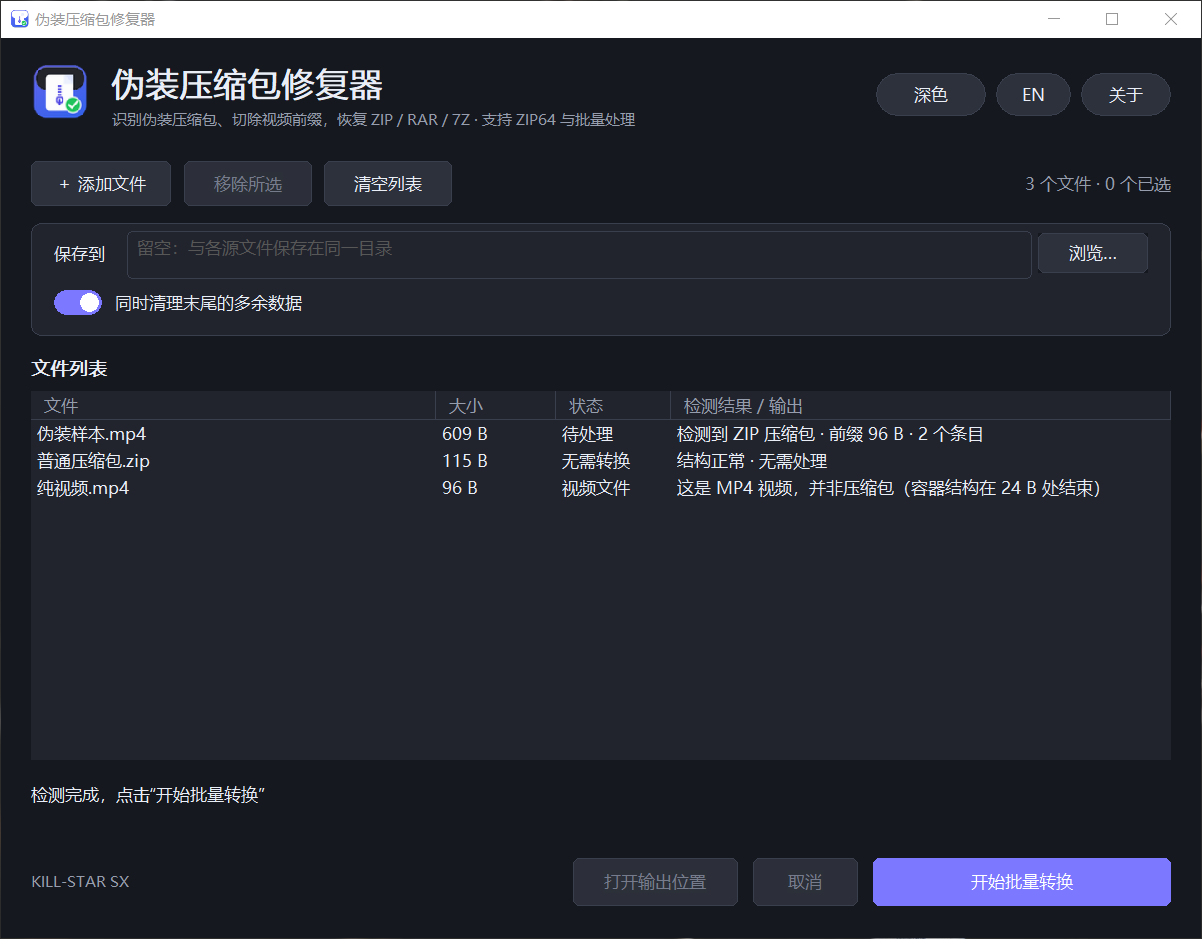
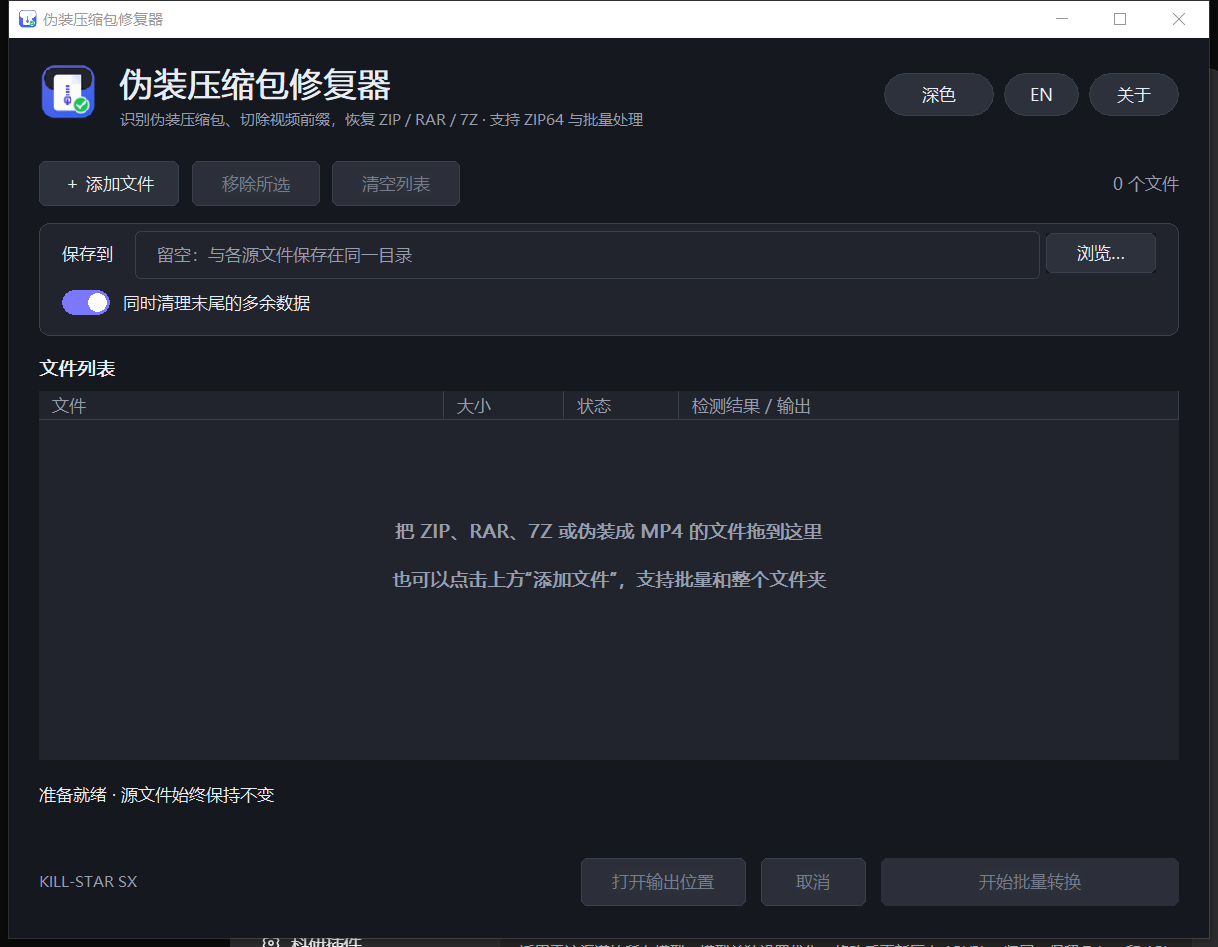
Fix URL launching and polish output field

diff --git a/main.cpp b/main.cpp
@@ -432,6 +432,43 @@ private:
         return DefSubclassProc(window, message, wParam, lParam);
     }
 
+
+    static LRESULT CALLBACK outputEditProc(HWND window, UINT message, WPARAM wParam,
+                                           LPARAM lParam, UINT_PTR, DWORD_PTR reference) {
+        App* self = reinterpret_cast<App*>(reference);
+        if (message == WM_PAINT && GetFocus() != window) {
+            PAINTSTRUCT paint{};
+            HDC dc = BeginPaint(window, &paint);
+            RECT client{};
+            GetClientRect(window, &client);
+            FillRect(dc, &client, self->cardBrush_);
+            const int length = GetWindowTextLengthW(window);
+            std::vector<wchar_t> buffer(static_cast<size_t>(length) + 1, L'\0');
+            if (length > 0) GetWindowTextW(window, buffer.data(), length + 1);
+            const wchar_t* text = length > 0 ? buffer.data() :
+                self->tr(L"留空：与各源文件保存在同一目录",
+                         L"Empty: save next to each source file");
+            SetBkMode(dc, TRANSPARENT);
+            SetTextColor(dc, length > 0 ? self->palette_.text : self->palette_.muted);
+            SelectObject(dc, self->uiFont_);
+            RECT label = client;
+            label.left += self->scale(10);
+            label.right -= self->scale(10);
+            DrawTextW(dc, text, -1, &label,
+                      DT_LEFT | DT_VCENTER | DT_SINGLELINE | DT_NOPREFIX |
+                          (length > 0 ? DT_PATH_ELLIPSIS : DT_END_ELLIPSIS));
+            EndPaint(window, &paint);
+            return 0;
+        }
+        if (message == WM_SETFOCUS || message == WM_KILLFOCUS) {
+            InvalidateRect(window, nullptr, TRUE);
+        }
+        if (message == WM_NCDESTROY) {
+            RemoveWindowSubclass(window, &App::outputEditProc, 1);
+        }
+        return DefSubclassProc(window, message, wParam, lParam);
+    }
+
     static LRESULT CALLBACK aboutProc(HWND window, UINT message, WPARAM wParam, LPARAM lParam) {
         App* self = reinterpret_cast<App*>(GetWindowLongPtrW(window, GWLP_USERDATA));
         if (message == WM_NCCREATE) {
@@ -500,9 +537,8 @@ private:
                                    42, 158, 58, 28);
         outputEdit_ = makeControl(WC_EDITW, L"", ES_AUTOHSCROLL | WS_TABSTOP,
                                   108, 158, 620, 30, IDC_OUTPUT);
-        SendMessageW(outputEdit_, EM_SETCUEBANNER, TRUE,
-                     reinterpret_cast<LPARAM>(tr(L"留空：与各源文件保存在同一目录",
-                                                L"Empty: save next to each source file")));
+        SetWindowSubclass(outputEdit_, &App::outputEditProc, 1,
+                          reinterpret_cast<DWORD_PTR>(this));
         browseButton_ = makeControl(WC_BUTTONW, tr(L"浏览…", L"Browse…"),
                                     BS_OWNERDRAW | WS_TABSTOP, 828, 156, 88, 32, IDC_BROWSE);
         trimCheck_ = makeControl(WC_BUTTONW, tr(L"同时清理末尾的多余数据", L"Trim trailing data"),
@@ -1213,16 +1249,13 @@ private:
                         tr(L"打开链接", L"Open link"), MB_OK | MB_ICONINFORMATION);
             return;
         }
-        // Route through the shell so the browser does not inherit an elevated token
-        // when this tool happens to run elevated. A browser that is already
-        // elevated is handled above, because Windows blocks that hand-off.
-        std::wstring arguments = L"\"";
-        arguments += url;
-        arguments += L"\"";
+        // Let the shell resolve the registered browser directly. Starting a new
+        // explorer.exe process for a URL can fail with STATUS_DLL_INIT_FAILED.
         const HINSTANCE launched =
-            ShellExecuteW(window_, L"open", L"explorer.exe", arguments.c_str(), nullptr, SW_SHOWNORMAL);
-        if (reinterpret_cast<INT_PTR>(launched) <= 32) {
             ShellExecuteW(window_, L"open", url, nullptr, nullptr, SW_SHOWNORMAL);
+        if (reinterpret_cast<INT_PTR>(launched) <= 32) {
+            const std::wstring arguments = L"url.dll,FileProtocolHandler \"" + std::wstring(url) + L"\"";
+            ShellExecuteW(window_, L"open", L"rundll32.exe", arguments.c_str(), nullptr, SW_SHOWNORMAL);
         }
     }
 
@@ -1535,9 +1568,7 @@ private:
         SetWindowTextW(removeButton_, tr(L"移除所选", L"Remove"));
         SetWindowTextW(clearButton_, tr(L"清空列表", L"Clear"));
         SetWindowTextW(outputLabel_, tr(L"保存到", L"Save to"));
-        SendMessageW(outputEdit_, EM_SETCUEBANNER, TRUE,
-                     reinterpret_cast<LPARAM>(tr(L"留空：与各源文件保存在同一目录",
-                                                L"Empty: save next to each source file")));
+        InvalidateRect(outputEdit_, nullptr, TRUE);
         SetWindowTextW(browseButton_, tr(L"浏览…", L"Browse…"));
         SetWindowTextW(trimCheck_, tr(L"同时清理末尾的多余数据", L"Trim trailing data"));
         SetWindowTextW(status_, tr(L"准备就绪 · 源文件始终保持不变",

diff --git a/README.md b/README.md
@@ -35,6 +35,16 @@
 
 视频文件、无损 ZIP、只识别格式会标成“视频文件 / 无需转换 / 暂不支持”，不会生成多余副本。
 
+### Windows 打开文件安全提示
+
+从浏览器或聊天软件下载的 EXE 会带“来自 Internet”标记，Windows 可能仍显示一次“打开文件 - 安全警告”。发行商应显示为 **KILL-STAR SX**；这与 UAC 管理员权限无关。对本机文件右键“属性”并选择“解除锁定”，或在 PowerShell 执行：
+
+```powershell
+Unblock-File .\ZipRepairDesk.exe
+```
+
+源码构建和 `sign.ps1` 签名后的本机文件会自动清除这个标记。
+
 ## 构建
 
 需要 MinGW-w64 工具链（`g++`、`windres`、`objcopy`），例如 [w64devkit](https://github.com/skeeto/w64devkit)。
